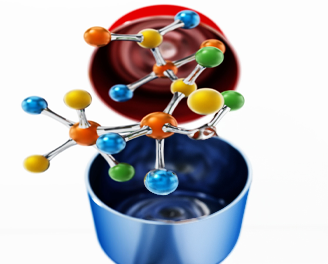
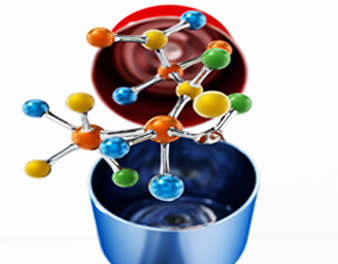
Cartões

Changed region(s): [[0.061, 0.0, 0.7927, 1.0], [0.5183, 0.9091, 0.5793, 1.0]]

diff --git a/style.css b/style.css
@@ -40,6 +40,33 @@ body {
     border-radius: 60px;
     border: 2px solid var(--verdeclarinho)
 }
+/* Cartão   */
+.card {
+    width: 342px;
+    height: 490px;
+    background-color: var(--verdeclarinho);
+    margin-bottom: 25px;
+    border: 2px solid var(--rosaqueimado);
+    text-align: center;
+    border-radius: 25px;
+
+}
+
+.card img {
+    border-radius: 25px 25px 0px 0px;
+}
+
+.card h2 {
+    font-size: 1.3rem;
+    margin: 15px 0px ;
+    color: #ffffff;
+}
+
+.card p {
+    color: var(--dourado);
+    padding: 0px 15px 30px 15px;
+
+}
 
 /* Fim do Layout*/
 
@@ -254,6 +281,22 @@ h2 {
     font-size: 1.3rem;
 }
 
+/* Cartões */
+#Tratamentos {
+    padding: 50px 0px 25px 0px;
+}
+
+#Tratamentos .container {
+    flex-direction: column;
+    align-items: center;
+}
+
+#Tratamentos p {
+    margin-bottom: 10px;
+    margin-top: 5px;
+}
+
+
 /* Fim smartphone portrait*/
 
 /* Smartfone Landscape >>>>>>>>>>>>>>>>>>>>>> */
@@ -339,7 +382,6 @@ h2 {
     }
 
 }
-
 /* Fim smartphone Landscape*/
 
 /* Tablet Portrait >>>>>>>>>>>>>>>>>>>>>> */
@@ -383,7 +425,10 @@ h2 {
         height: 315px;
         width: 560px;
     }
+
 }
+
+
 
 /* Fim - Tablet Portrait <<<<<<<<<<<<<<<<<*/
 
@@ -401,6 +446,16 @@ h2 {
         height: 315px;
         width: 560px;
     }
+    /* Cartões */
+    #Tratamentos .container {
+        flex-direction: row;
+        flex-wrap: wrap;
+        justify-content: space-around;
+    }
+    .card {
+        margin-right: 25px;
+    }
+
 
 }
 
@@ -527,11 +582,18 @@ h2 {
     
 
     #pdf #text h2 {
-        font-size: 2.5rem;
+        font-size: 3.5rem;
     }
 
     #pdf #text p {
         font-size: rem;
+    }
+    /*Cartões */
+    #Tratamentos .container {
+      flex-direction: row;
+    }
+    .card {
+        margin-right: 0px; 
     }
 }
 

diff --git a/index.html b/index.html
@@ -89,7 +89,7 @@
                 </h2>
                 <p>
                     Olá, Sou Karoline, Enfermeira especialista em cuidados como Autismo e Síndrome de Down.
-                    Trabalho na área a mais de 3 anos e completamente apaixonada pela área.
+                    Trabalho na área a mais de 3 anos e completamente apaixonada pelos cuidados da área.
                 </p>
 
             </div>
@@ -122,6 +122,36 @@
             </div>
 
         </div>
+    </section>
+
+    <!-- Cartões-->
+    <section id="Tratamentos">
+        <div class="container">
+
+            <div class="card">
+                <img src="./IMG/CARTAO1.png" alt="Medicina Ortomulecular">
+                <h2>Benefícios da Medicina Ortomolecular</h2>
+                <p>Conjunto de Vitaminas Benéficas</p>
+                <a href="http://" target="_blank" rel="noopener noreferrer" class="btn">SAIBA +</a>
+
+            </div>
+
+            <div class="card">
+                <img src="./IMG/CARTÃO2.png" alt="Ozônioterapia">
+                <h2>Conheça os Benefícios da junção do oxigênio com ozônio!</h2>
+                <p>Tratamentos exclusivos</p>
+                <a href="http://" target="_blank" rel="noopener noreferrer" class="btn">SAIBA +</a>
+            </div>
+
+            <div class="card">
+                <img src="./IMG/CARTAO3.png" alt="Benefícios para Autismo e Tdah">
+                <h2>Tratamentos Completos para doenças crônicas</h2>
+                <p>A combinação de terapias</p>
+                <a href="http://" target="_blank" rel="noopener noreferrer" class="btn">SAIBA +</a>
+            </div>
+
+        </div>
+
     </section>
 
 </body>
